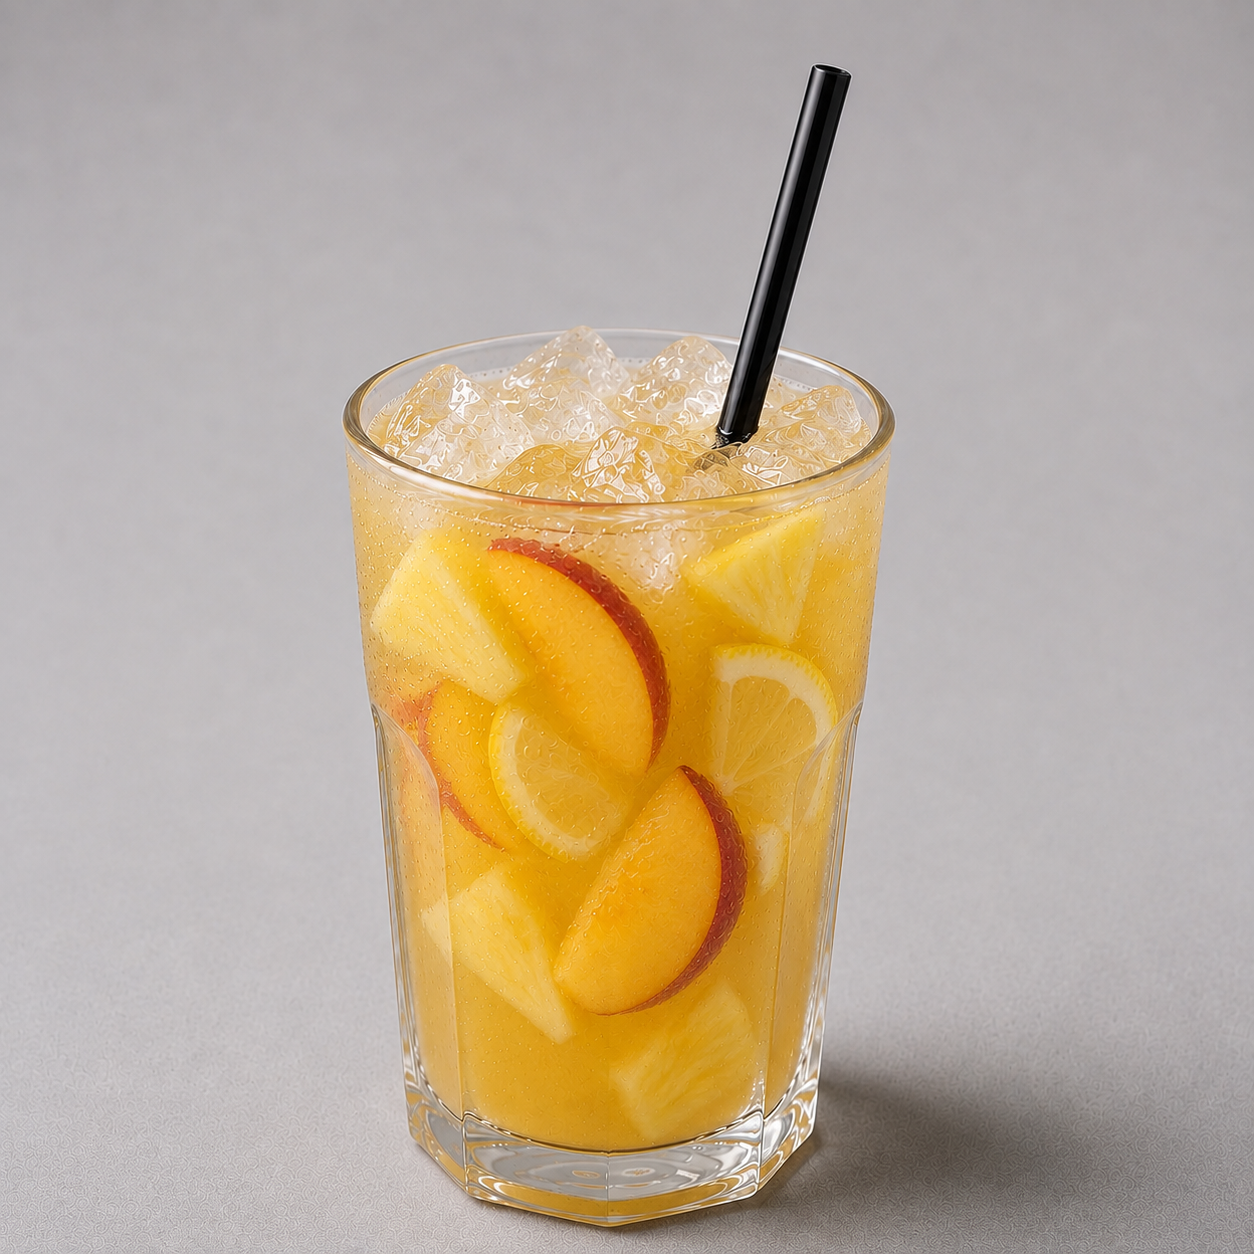
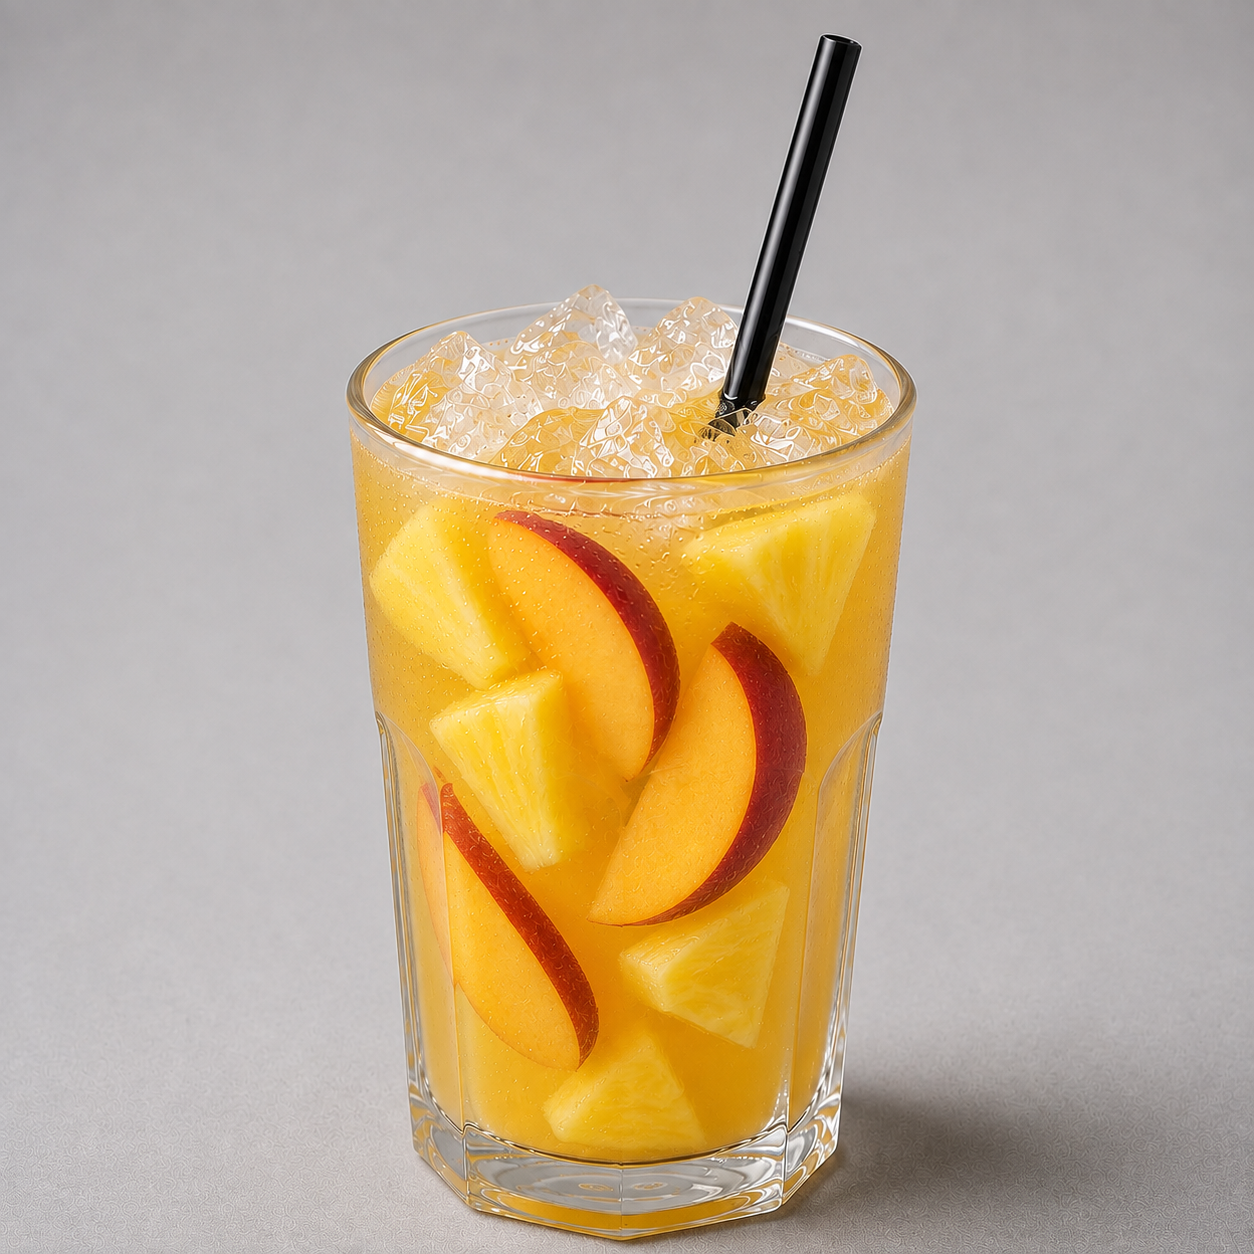
fe

Changed region(s): [[0.2488, 0.1555, 1.0, 1.0], [0.622, 0.0311, 0.6842, 0.1555], [0.1866, 0.9952, 0.2177, 1.0]]

diff --git a/js/menu-data.js b/js/menu-data.js
@@ -531,15 +531,15 @@ const DISH_I18N = {
     },
     'gan-eden': {
       name: 'Gan Eden',
-      desc: 'Tequila and fresh watermelon with a touch of lemon. A light, refreshing and fruity cocktail with a distinctly summery taste.',
+      desc: 'Tequila, fresh watermelon and melon with fresh mint. A light, refreshing and fruity cocktail with a distinctly summery taste.',
     },
     'eretz-zavat': {
-      name: 'Eretz Zavat Chalav U\'Dvash',
-      desc: 'Vodka, pineapple and fresh nectarine with lemon. A rich tropical mix, sweet and balanced with fruity freshness.',
+      name: 'Eretz Zavat Ananas U\'Dvash',
+      desc: 'Vodka, pineapple and fresh nectarine. A rich tropical mix, sweet and balanced with fruity freshness.',
     },
     'kerem-yisrael': {
       name: 'Kerem Yisrael',
-      desc: 'Jameson, apple and fresh grapes with a touch of lemon. A deep, balanced cocktail combining natural sweetness with a gentle acidity and the aroma of fresh fruit.',
+      desc: 'Jameson, apple and fresh grapes. A deep, balanced cocktail combining natural sweetness with a gentle acidity and the aroma of fresh fruit.',
     },
     'vodka-redbull': { name: 'Vodka Red Bull', desc: '' },
     'shake-base-soy': { name: 'Soy', desc: '' },
@@ -840,15 +840,15 @@ const MENU_DATA = {
           id: 'gan-eden',
           name: 'גן עדן',
           printName: 'Gan Eden',
-          description: 'טקילה ואבטיח טרי עם נגיעה של לימון. קוקטייל קליל, מרענן ופירותי עם טעם קיצי במיוחד.',
+          description: 'טקילה, אבטיח ומלון טריים עם נענע טרייה. קוקטייל קליל, מרענן ופירותי עם טעם קיצי במיוחד.',
           price: 14,
           image: dishImage('gan-eden'),
         },
         {
           id: 'eretz-zavat',
-          name: 'ארץ זבת חלב ודבש',
+          name: 'ארץ זבת אננס ודבש',
           printName: 'Eretz Zavat',
-          description: 'וודקה, אננס ונקטרינה טרייה עם לימון. שילוב טרופי עשיר, מתוק ומאוזן עם רעננות פירותית.',
+          description: 'וודקה, אננס ונקטרינה טרייה. שילוב טרופי עשיר, מתוק ומאוזן עם רעננות פירותית.',
           price: 15,
           image: dishImage('eretz-zavat'),
         },
@@ -856,7 +856,7 @@ const MENU_DATA = {
           id: 'kerem-yisrael',
           name: 'כרם ישראל',
           printName: 'Kerem Yisrael',
-          description: 'ג\'יימסון, תפוח וענבים טריים עם נגיעת לימון. קוקטייל עמוק ומאוזן, המשלב מתיקות טבעית עם חמיצות עדינה וניחוח של פירות טריים.',
+          description: 'ג\'יימסון, תפוח וענבים טריים. קוקטייל עמוק ומאוזן, המשלב מתיקות טבעית עם חמיצות עדינה וניחוח של פירות טריים.',
           price: 15,
           image: dishImage('kerem-israel'),
         },

diff --git a/shabbat.html b/shabbat.html
@@ -264,7 +264,7 @@
   <script src="js/supabase-config.js" defer></script>
   <script src="js/order-types.js" defer></script>
   <script src="js/supabase-order-service.js" defer></script>
-  <script src="js/shabbat-menu-data.js?v=35" defer></script>
+  <script src="js/shabbat-menu-data.js?v=36" defer></script>
   <script src="js/inventory.js" defer></script>
   <script src="js/a11y-focus-trap.js" defer></script>
   <script src="js/shabbat-app.js?v=27" defer></script>

diff --git a/index.html b/index.html
@@ -986,7 +986,7 @@
   <script src="js/supabase-config.js" defer></script>
   <script src="js/order-types.js" defer></script>
   <script src="js/supabase-order-service.js" defer></script>
-  <script src="js/menu-data.js?v=34" defer></script>
+  <script src="js/menu-data.js?v=40" defer></script>
   <script src="js/opening-hours.js" defer></script>
   <script src="js/inventory.js" defer></script>
   <script src="js/order-session.js" defer></script>

diff --git a/js/shabbat-menu-data.js b/js/shabbat-menu-data.js
@@ -320,7 +320,8 @@
             name: 'נתח אסאדו בבישול ארוך',
             nameEn: 'Slow-cooked asado cut',
             printName: 'Asado',
-            desc: '',
+            desc: '700–800 גרם',
+            descEn: '700–800g',
             price: 67,
             image: sabatImage('asado'),
           },
